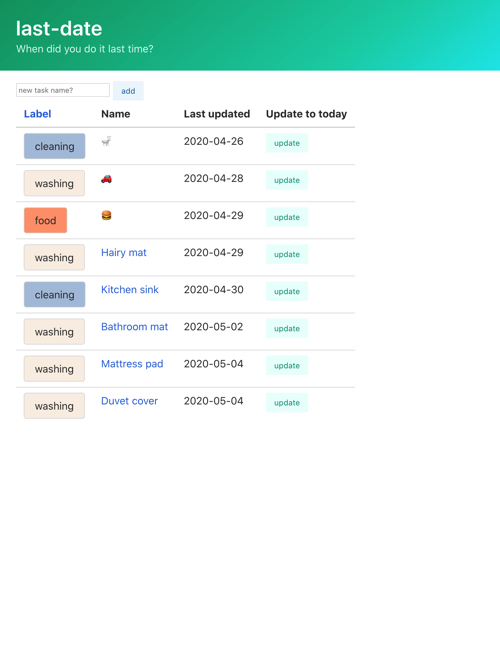
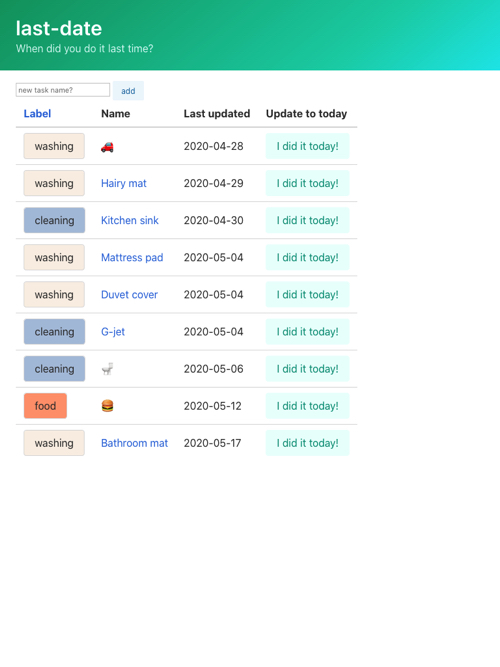
Change update button style
This commit include two style changes

## Replace button label "update" with "I did it today!"

I want to make what this button do clear.

## Remove `is-small` class

At first, I planned to use this app in a mobile environment. That's
why this `is-small` class makes sense. But, now this app's table
contents is too wide to be used in a mobile environment. So I
remove them.

diff --git a/usage.md b/usage.md
@@ -34,7 +34,7 @@ There are **two** task update paths: for date and for the others.
 
 #### Update "Last updated" date
 
-Click "update" button in index page.
+Click green button in index page.
 
 #### Update the other fields
 
